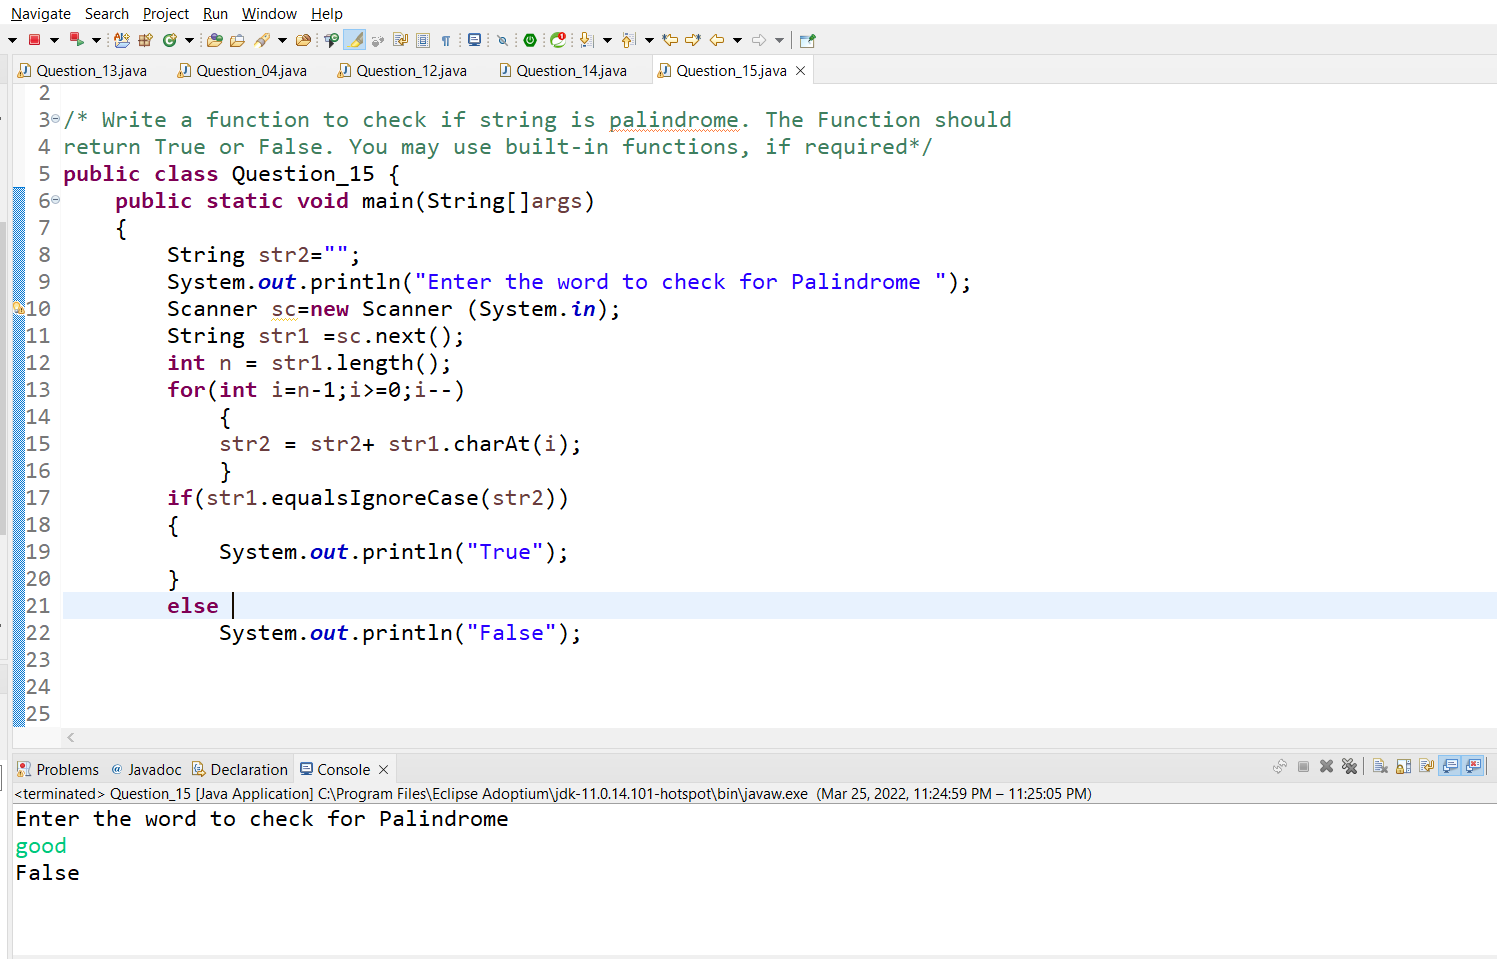
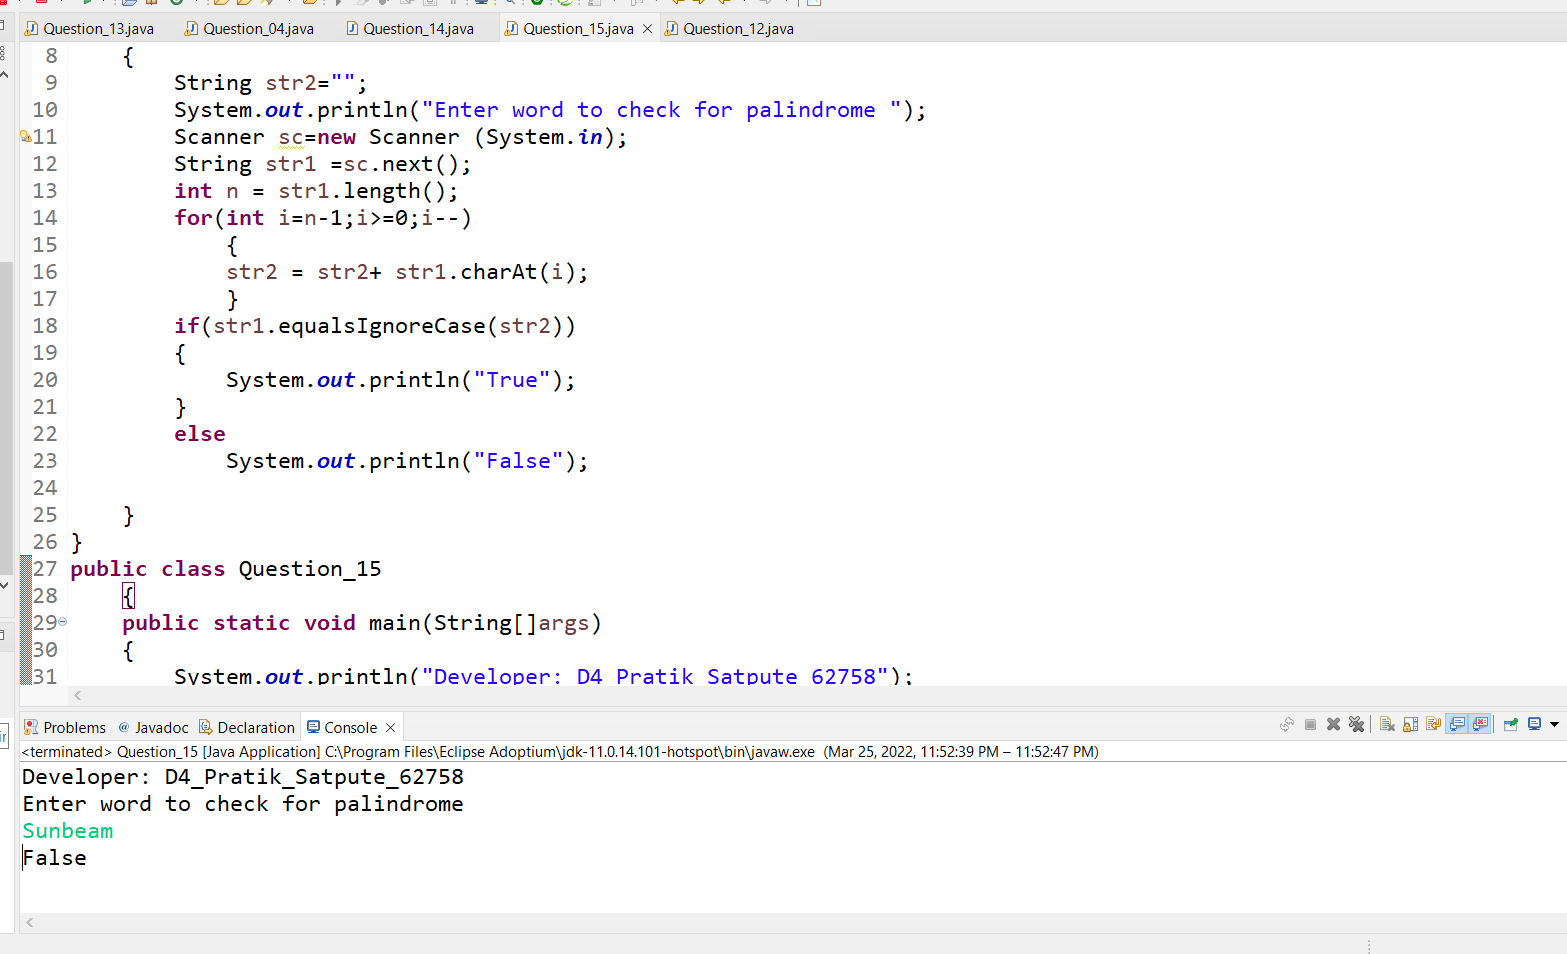
Question 12

Changed region(s): [[0.0, 0.0, 1.0, 0.9423], [0.3687, 0.6992, 0.5838, 0.7296]]

diff --git a/Question_15.java b/Question_15.java
@@ -2,11 +2,12 @@ import java.util.Scanner;
 
 /* Write a function to check if string is palindrome. The Function should 
 return True or False. You may use built-in functions, if required*/
-public class Question_15 {
-	public static void main(String[]args)
-	{	
+class palindrome
+{
+	 void fun()
+	{
 		String str2="";
-		System.out.println("Enter the word to check for Palindrome ");
+		System.out.println("Enter word to check for palindrome ");
 		Scanner sc=new Scanner (System.in);
 		String str1 =sc.next();
 		int n = str1.length();
@@ -21,24 +22,17 @@ public class Question_15 {
 		else 
 			System.out.println("False");
 		
-		
-		
-		/*String str2="";
-		System.out.println("Enter the word to check for Palindrome ");
-		Scanner sc=new Scanner (System.in);
-		String str1 =sc.next();
-		int n = str1.length();
-		for(int i=n-1;i>=0;i--)
-			{
-			str2 = str2+ str1.charAt(i);
-			}
-		if(str1.equalsIgnoreCase(str2)) 
-		{
-			System.out.println("The word "+str1+ " is Palindrome");
-		}
-		else 
-			System.out.println("The word is "+str1+ " not Palindrome");
-		*/
 	}
-
 }
+public class Question_15 
+	{
+	public static void main(String[]args)
+	{	
+		System.out.println("Developer: D4_Pratik_Satpute_62758");
+		palindrome pal = new palindrome();
+		pal.fun();
+	}
+	}
+	
+
+
